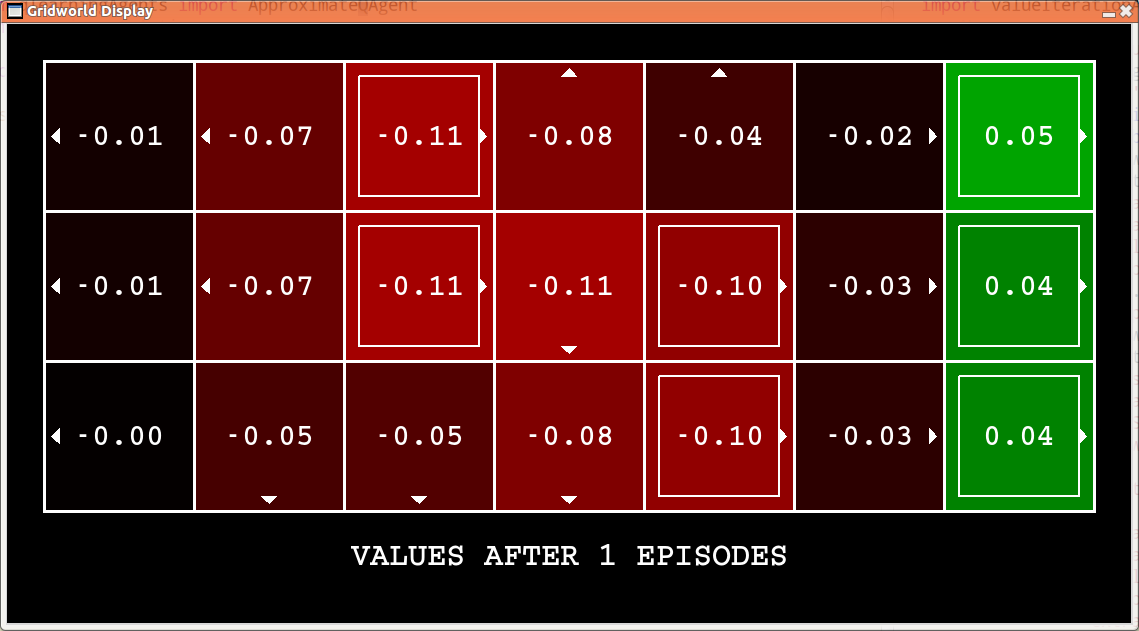
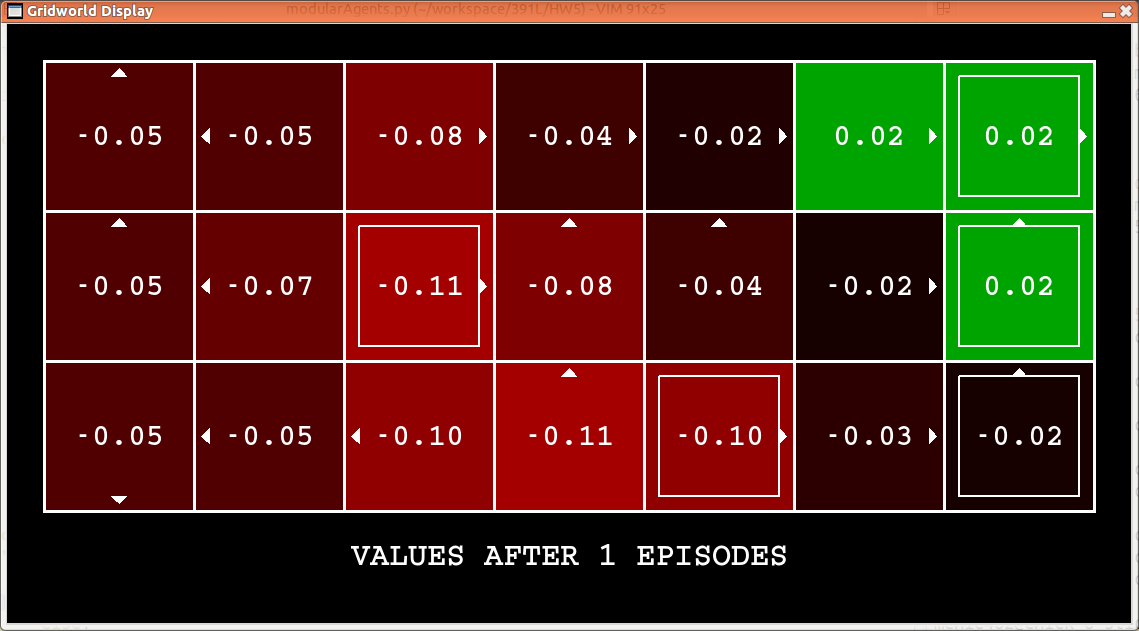
start adding gibbs softmax

diff --git a/modularAgents.py b/modularAgents.py
@@ -1,4 +1,4 @@
-from qlearningAgents import ApproximateQAgent 
+from qlearningAgents import ApproximateQAgent
 from game import Actions
 
 import math
@@ -7,19 +7,47 @@ class ModularAgent(ApproximateQAgent):
 	def __init__(self, **args):
 		ApproximateQAgent.__init__(self, **args)
  
-	def getQValue(self, state, action):
+	def getQValue(self, state, action, idx = None):
 		"""
 			Get Q value by consulting each module
+			If idx indicated, then only return qvalue for that qFunc
 		"""
-		qValues = self.qFuncs(state, action)
+		if idx != None:
+			return qFuncs[idx](state, action)
+		else:
+			qValues = []
+			for qFunc in self.qFuncs:
+				qValues.append(qFunc(state, action))
 
-		return 0.6 * qValues[0] + 0.4 * qValues[1]
+			return 0.6 * qValues[0] + 0.4 * qValues[1]
 	
 	def setQFuncs(self, qFuncs):
 		"""
 			Must set QFuncs here. getQValue will use this.
 		"""
 		self.qFuncs = qFuncs
+	
+	def getPolicy(self, state):
+		"""
+			Can toggle between using QValue directly (traditional way)
+			or by proportion of exp(QValue)
+		"""
+		return ApproximateQAgent.getPolicy(self, state)
+		#return self.getGibbsPolicy(state)
+	
+	def getGibbsPolicy(self, state):
+		"""
+			Rather than using QValue, use proportion of exp(QValue)
+		"""
+		actions = self.getLegalActions(state)
+		if actions: 
+			q_value_func = lambda action: self.getQValue(state, action)
+			[math.exp(q_value_func(action)) for action in actions]
+			return random.choice(optActions)
+		else:
+			return None
+
+
 
 def getObsAvoidFuncs(mdp):
 	"""
@@ -30,15 +58,31 @@ def getObsAvoidFuncs(mdp):
 	obstacle = {'bias': -0.20931133310480204, 'dis': 0.06742681562641269}
 	sidewalk = {'x': 0.06250000371801567}
 
-	def qValues(state, action):
+	def getNext(state, action):
 		x, y = state
 		dx, dy = Actions.directionToVector(action)
 		next_x, next_y = int(x + dx), int(y + dy)
+		if next_x < 0 or next_x >= mdp.grid.width:
+			next_x = x
+		if next_y < 0 or next_y >= mdp.grid.height:
+			next_y = y
 
-		# forward walking
-		qWalk = sidewalk['x'] * next_x
+		return [next_x, next_y]
 
-		# obstacle avoiding
+	def qWalk(state, action):
+		"""
+			QValue of forward walking
+		"""
+		next_x, next_y = getNext(state, action)
+		return sidewalk['x'] * next_x
+
+	def qObstacle(state, action):
+		"""
+			QValue of obstacle avoiding
+		"""
+		x, y = state
+		next_x, next_y = getNext(state, action)
+
 		# find the distance to the nearest obstacle
 		minDist = mdp.grid.width * mdp.grid.height
 		for xt in range(mdp.grid.width):
@@ -48,8 +92,6 @@ def getObsAvoidFuncs(mdp):
 					# it's an obstacle!
 					dist = math.sqrt((xt - next_x) ** 2 + (yt - next_y) ** 2)
 					if (dist < minDist): minDist = dist
-		qObstacle = minDist * obstacle['dis'] + 1 * obstacle['bias']
+		return minDist * obstacle['dis'] + 1 * obstacle['bias']
 
-		return [qWalk, qObstacle]
-
-	return qValues
+	return [qWalk, qObstacle]

diff --git a/qlearningAgents.py b/qlearningAgents.py
@@ -123,7 +123,6 @@ class QLearningAgent(ReinforcementAgent):
     new_qvalue = (1 - self.alpha) * self.getQValue(state, action) + self.alpha * sample 
     self.values[state, action] = new_qvalue 
 
-
 class PacmanQAgent(QLearningAgent):
   "Exactly the same as QLearningAgent, but with different default parameters"
   
